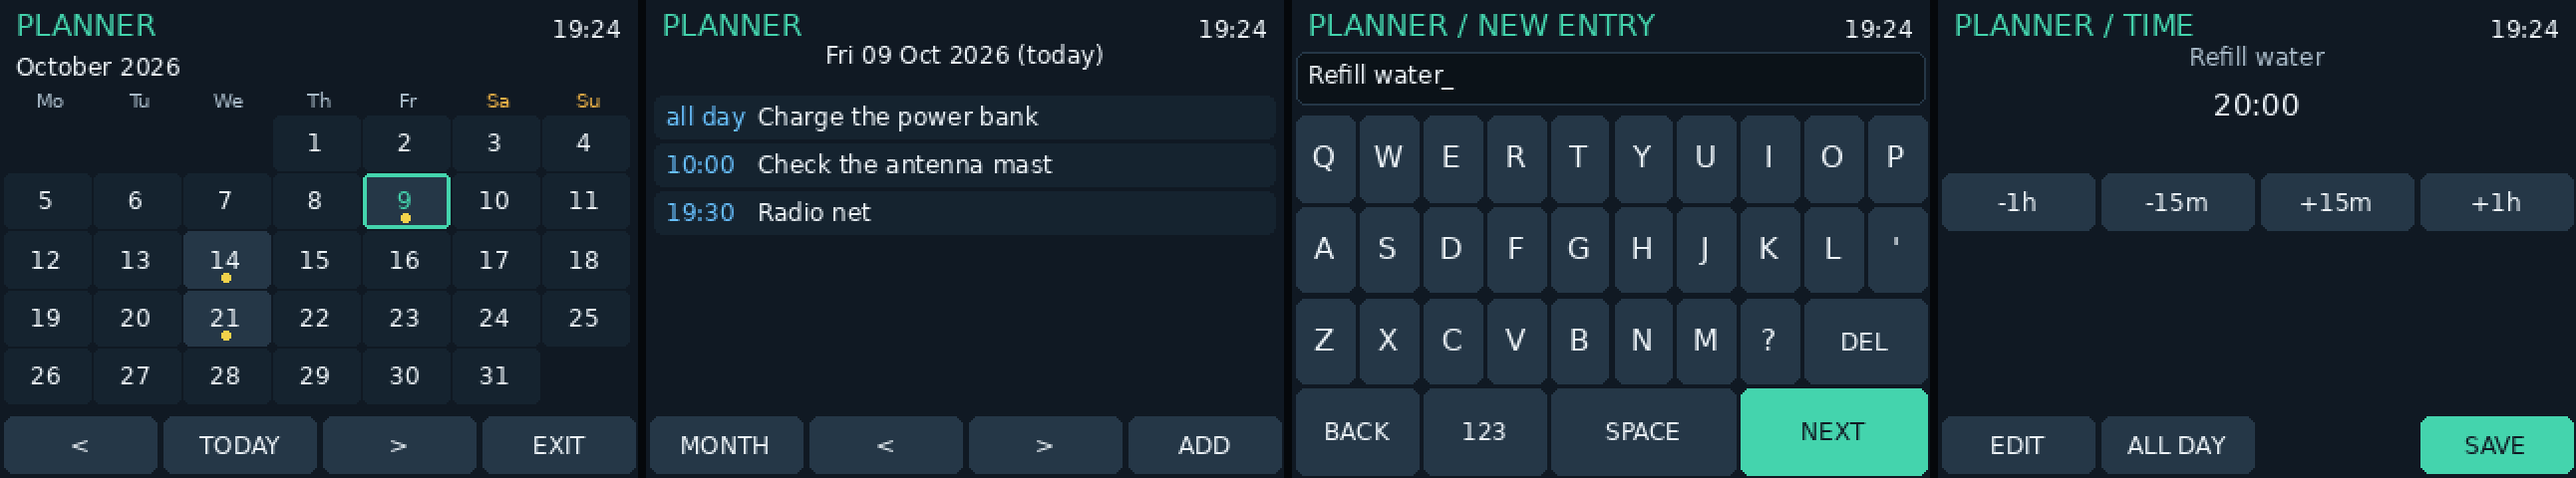
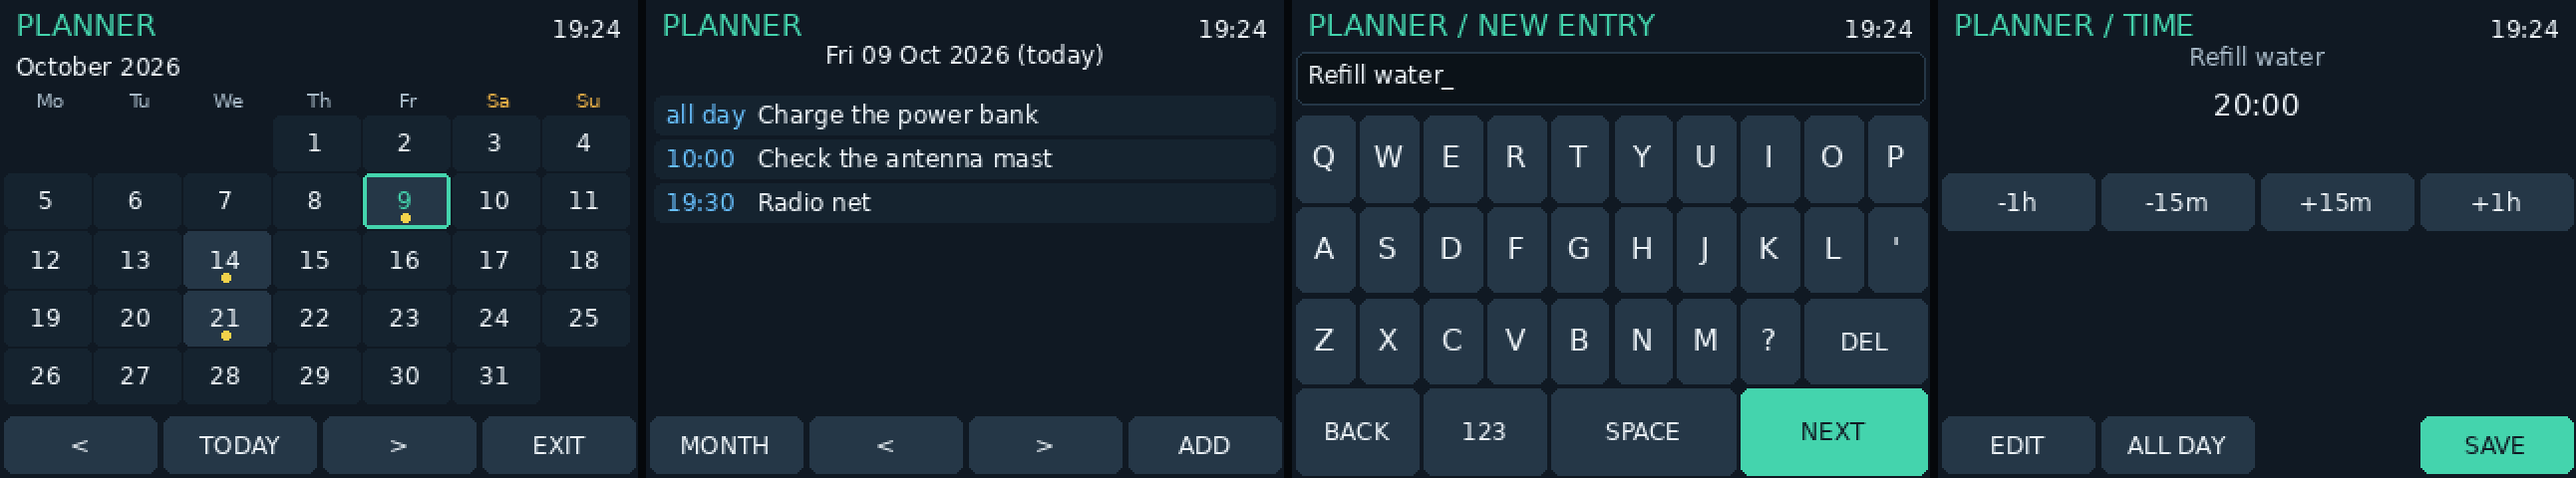
Planner: scroll a day's entries with ^ and v
A day holds up to 20 entries but only 6 (landscape) or 8 (portrait) fit, and
the rest showed only as "+N more" that could not be opened or deleted. The list
now scrolls with ^ and v beside it, a newly saved entry scrolls into view, and
the rows end above the message line instead of touching it.

Claude-Session: https://claude.ai/code/session_016w3uQjEr2ZwcCKuYp4Kst7

Changed region(s): [[0.2477, 0.3125, 0.4025, 0.375], [0.2477, 0.2188, 0.4025, 0.2812], [0.2477, 0.4062, 0.3406, 0.4688]]

diff --git a/panel_tools/planner.py b/panel_tools/planner.py
@@ -122,6 +122,7 @@ class PlannerApp:
         self.shown = None      # First day of the month on screen; None follows today.
         self.day = None        # Day open in the day view.
         self.selected = None   # Entry index waiting for delete confirmation.
+        self.first = 0         # First entry shown in the day list; ^ and v scroll it.
         self.text, self.time, self.symbols = '', '', False
         self.message = ''
         self.wall = None       # Wall time of the last draw, so taps agree with what is shown.
@@ -158,11 +159,28 @@ class PlannerApp:
                   round(x0 + (c+1)*cell_w) - 2, round(y0 + 14 + (r+1)*cell_h) - 2), day)
                 for r, week in enumerate(weeks) for c, day in enumerate(week) if day]
 
-    def entry_rects(self, count):
+    def entry_layout(self):
         a = self.a
-        top, pitch = (48, 24) if not a.portrait() else (62, 26)
-        rows = min(count, max(1, (a.H - 36 - top) // pitch))
-        return [(4, top + i*pitch, a.W-5, top + i*pitch + pitch - 3) for i in range(rows)]
+        top, pitch = (48, 22) if not a.portrait() else (62, 25)
+        return top, pitch, max(1, (a.H - 54 - top) // pitch)  # Ends above the message line at H-48.
+
+    def entry_rects(self, count):
+        """Rects for the entries on screen, narrowed to leave room for ^ and v when they don't all fit."""
+        top, pitch, rows = self.entry_layout()
+        right = self.a.W - (37 if count > rows else 5)
+        return [(4, top + i*pitch, right, top + i*pitch + pitch - 3) for i in range(min(count, rows))]
+
+    def scroll_rects(self, count):
+        """^ and v beside the entry list, or nothing when every entry fits."""
+        top, pitch, rows = self.entry_layout()
+        if count <= rows:
+            return []
+        bottom, x = top + rows*pitch - 3, self.a.W - 33
+        middle = (top + bottom) // 2
+        return [(x, top, self.a.W-5, middle-2), (x, middle+1, self.a.W-5, bottom)]
+
+    def clamp_first(self, count):
+        self.first = max(0, min(self.first, count - self.entry_layout()[2]))
 
     def time_rects(self):
         a = self.a
@@ -212,10 +230,15 @@ class PlannerApp:
                 else:
                     self.text, self.symbols, self.view = '', False, 'type'
             else:
-                entries = self.planner.entries(self.day)
-                hit = a.index_at(self.entry_rects(len(entries)), x, y, slop=1)
+                count = len(self.planner.entries(self.day))
+                scroll = a.index_at(self.scroll_rects(count), x, y, slop=1)
+                if scroll is not None:
+                    self.first += -1 if scroll == 0 else 1
+                    self.clamp_first(count)
+                    return None
+                hit = a.index_at(self.entry_rects(count), x, y, slop=1)
                 if hit is not None:
-                    self.selected = hit
+                    self.selected = self.first + hit
             return None
         if self.view == 'time':
             choice = a.index_at(self.time_rects(), x, y, slop=2) if self.time else None
@@ -231,6 +254,12 @@ class PlannerApp:
                 saved = self.planner.add(self.day, self.text, self.time)
                 self.message = 'Saved' if saved else 'Not saved'
                 self.view = 'day'
+                entries = self.planner.entries(self.day)
+                new = clean_entry({'text': self.text, 'time': self.time})
+                if saved and new in entries:  # Scroll so the new entry is on screen.
+                    index, rows = entries.index(new), self.entry_layout()[2]
+                    self.first = min(max(self.first, index - rows + 1), index)
+                    self.clamp_first(len(entries))
             return None
         # Typing the entry text.
         keys = keyboard_rects(a.W, a.H, self.symbols)
@@ -256,7 +285,7 @@ class PlannerApp:
         return None
 
     def open_day(self, day):
-        self.day, self.view, self.selected, self.message = day, 'day', None, ''
+        self.day, self.view, self.selected, self.message, self.first = day, 'day', None, '', 0
 
     def now(self):
         return self.wall or datetime.now().astimezone()
@@ -336,10 +365,11 @@ class PlannerApp:
         if note and a.portrait():
             a.centred(d, 44, note, a.TINY, a.WARN)
         entries = self.planner.entries(self.day)
+        self.clamp_first(len(entries))
         rects = self.entry_rects(len(entries))
         if not entries:
             a.centred(d, a.H//2 - 10, 'Nothing planned. Tap ADD.', a.SMALL, a.MUTED)
-        for i, (rect, entry) in enumerate(zip(rects, entries)):
+        for i, (rect, entry) in enumerate(zip(rects, entries[self.first:]), self.first):
             chosen = i == self.selected
             d.rounded_rectangle(rect, radius=4, fill=a.DANGER if chosen else a.INSET)
             time = entry['time'] or 'all day'
@@ -348,9 +378,11 @@ class PlannerApp:
             left = rect[0] + 12 + d.textlength('all day', font=a.SMALL)
             d.text((left, (rect[1]+rect[3])//2), a.fit_text(d, entry['text'], rect[2]-left-6, a.SMALL),
                    font=a.SMALL, fill=a.TEXT, anchor='lm')
-        hidden = len(entries) - len(rects)
-        if hidden > 0 and entries:
-            d.text((a.W-6, rects[-1][3]+1), f'+{hidden} more', font=a.TINY, fill=a.MUTED, anchor='ra')
+        scroll = self.scroll_rects(len(entries))
+        if scroll:
+            ends = (self.first > 0, self.first + len(rects) < len(entries))
+            for rect, label, more in zip(scroll, ('^', 'v'), ends):
+                a.button(d, rect, label, fill=None if more else a.INSET)
         if self.selected is not None:
             labels = ('CANCEL', '', 'DELETE', '')
         else:

diff --git a/tests/test_planner.py b/tests/test_planner.py
@@ -121,6 +121,54 @@ class PlannerAppTest(unittest.TestCase):
             self.assertEqual(ui.view, 'month')
             self.assertEqual(self.tap(planner.bottom_buttons(app.W, app.H)[3]), 'exit')
 
+    def test_a_full_day_scrolls_to_every_entry(self):
+        for degrees in (0, 90):
+            app.set_rotation(degrees)
+            ui, day = self.ui, NOW.date()
+            for i in range(planner.MAX_PER_DAY):
+                ui.planner.add(day, f'Task {i:02}', f'{6 + i//4:02}:{i%4*15:02}')
+            ui.open_day(day)
+            self.draw()
+            count = planner.MAX_PER_DAY
+            rows, scroll = ui.entry_rects(count), ui.scroll_rects(count)
+            self.assertEqual(len(scroll), 2)
+            self.assertEqual(len(rows), 8 if degrees else 6)
+            for rect in rows + scroll:  # Rows, arrows and the message line never overlap.
+                self.assertTrue(0 <= rect[0] < rect[2] <= app.W and rect[3] < app.H-56, (degrees, rect))
+            self.assertLess(rows[0][2], scroll[0][0])
+            self.tap(scroll[0])  # ^ at the top does nothing.
+            self.assertEqual(ui.first, 0)
+            for _ in range(count):
+                self.tap(scroll[1])
+            self.assertEqual(ui.first, count - len(rows))
+            self.draw()
+            self.tap(ui.entry_rects(count)[-1])
+            self.assertEqual(ui.selected, count-1)
+            self.draw()
+            self.tap(planner.bottom_buttons(app.W, app.H)[2])  # DELETE
+            self.assertEqual([e['text'] for e in ui.planner.entries(day)][-1], f'Task {count-2:02}')
+            self.draw()
+            self.assertEqual(ui.first, count - 1 - len(rows))  # Still showing the end of the list.
+            self.tap(scroll[0])
+            self.assertEqual(ui.first, count - 2 - len(rows))
+            while ui.planner.entries(day):
+                ui.planner.delete(day, 0)
+
+    def test_a_new_entry_scrolls_into_view(self):
+        ui, day = self.ui, NOW.date()
+        for i in range(10):
+            ui.planner.add(day, f'Task {i}', f'{8+i:02}:00')
+        ui.open_day(day)
+        self.draw()
+        ui.tap(*centre(planner.bottom_buttons(app.W, app.H)[3]), 0)  # ADD
+        self.type_text('late')
+        self.tap(next(rect for rect, key in keyboard_rects(app.W, app.H, False) if key == 'ask'))
+        ui.time = '23:00'
+        self.tap(planner.bottom_buttons(app.W, app.H)[3])  # SAVE
+        rows = len(ui.entry_rects(11))
+        self.assertEqual(ui.first, 11 - rows)
+        self.draw()
+
     def test_all_day_entry_and_month_paging(self):
         ui = self.ui
         self.draw()

diff --git a/docs/APPS-AND-SAVERS.md b/docs/APPS-AND-SAVERS.md
@@ -158,7 +158,7 @@ APPS -> **SOS & LIGHT** turns the panel into a signal lamp.
 APPS -> **PLANNER** is a month calendar with a list of entries for each day.
 
 - The month view marks today with a green outline and days with entries with a yellow dot. `<` and `>` change month, **TODAY** opens today, and tapping a day opens it.
-- The day view lists that day's entries, untimed ("all day") ones first, then by time. `<` and `>` move a day; **MONTH** goes back.
+- The day view lists that day's entries, untimed ("all day") ones first, then by time. When there are more than fit (6 in landscape, 8 in portrait), `^` and `v` beside the list scroll it. `<` and `>` move a day; **MONTH** goes back.
 - **ADD** opens the on-screen keyboard. Type the entry (up to 60 characters), tap **NEXT**, then set the time with -1h, -15m, +15m and +1h, or tap **ALL DAY**. **SAVE** stores it. For today the time starts at the next whole hour, for other days at 09:00.
 - Tap an entry, then **DELETE**, to remove it. Any other tap cancels.
 - The APPS tile shows the next timed entry in the coming week.
